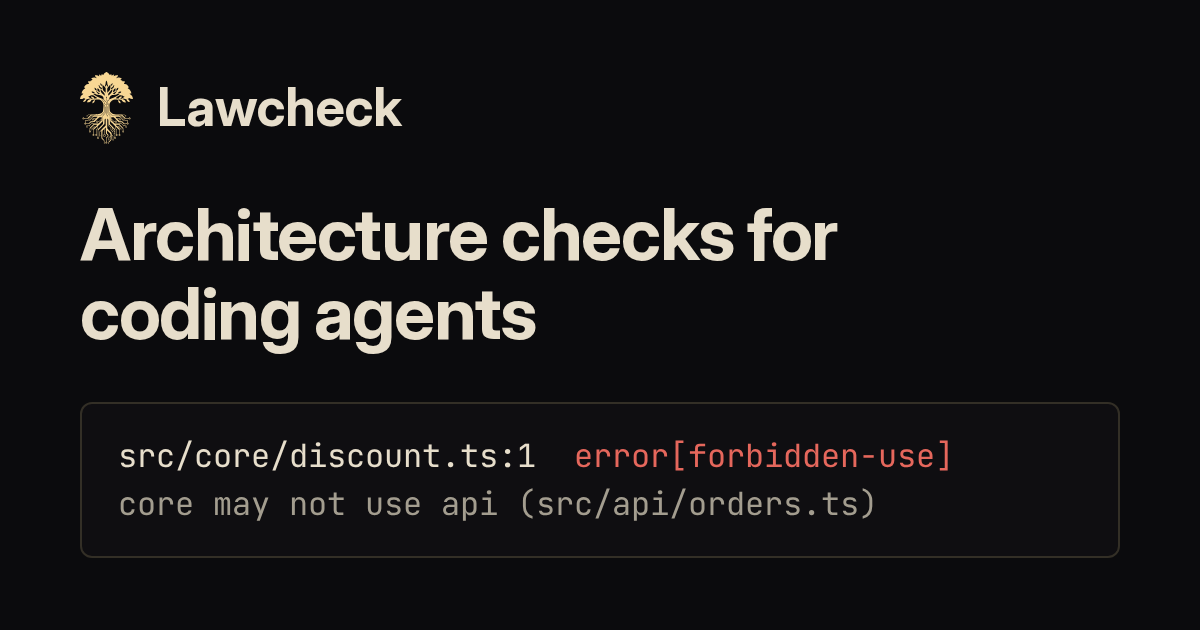
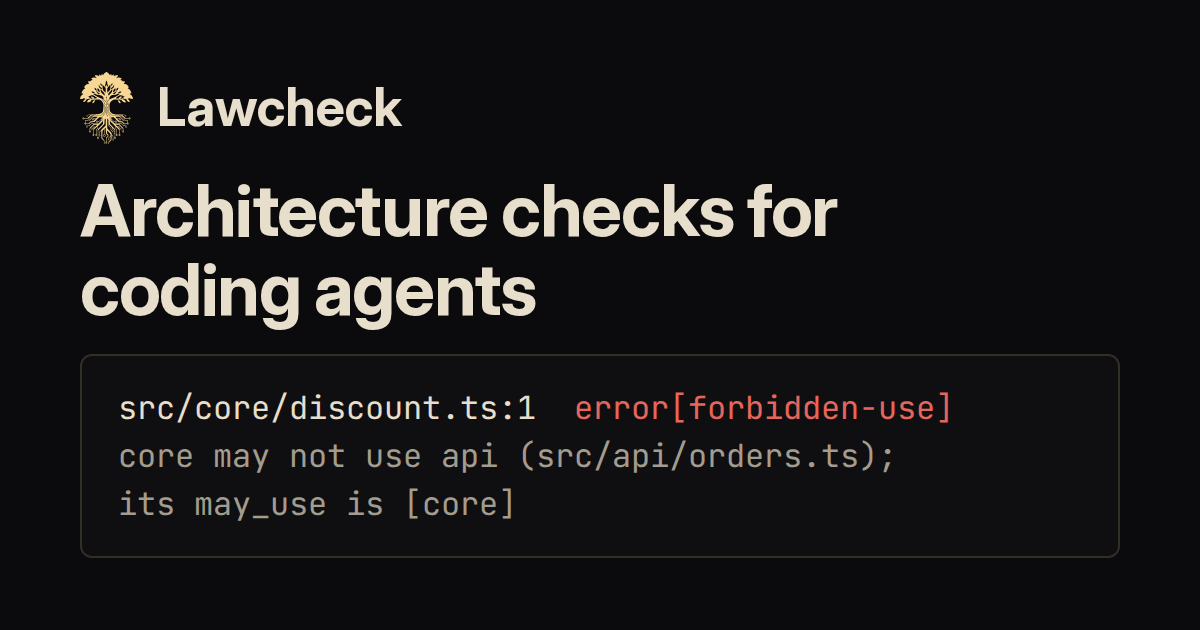
landing: the hero shows the whole law file, and the card and its alt text give the whole finding line (issue 244)

diff --git a/site/landing/facts.ts b/site/landing/facts.ts
@@ -61,12 +61,6 @@ export async function facts() {
   const link = (target: Link) => ({ text: target.text, href: pageUrl(target.page) });
 
   const law = code('README.md', 'Lawcheck', 'lawcheck: ');
-  const lawLines = law.text.split('\n');
-  const core = lawLines.findIndex((line) => line.trim() === 'core:');
-  const indent = lawLines[core]!.indexOf('core:');
-  const after = lawLines.slice(core + 1);
-  const end = after.findIndex((line) => line.length - line.trimStart().length <= indent);
-  const still = [lawLines[core]!, ...(end === -1 ? after : after.slice(0, end))].map((line) => line.slice(indent));
   const install = fragments.code('docs/install.md', 'Install globally', '$ npm install').code.replace(/^\$ /, '');
   const groups = ['`CLAUDE.md` and `AGENTS.md`', 'An architecture tool for one language', 'A review bot at the pull request', 'A hook you wrote in Claude Code'];
   const rowsOf: Record<string, string[]> = {
@@ -95,7 +89,7 @@ export async function facts() {
       support: md('docs/support.md')(support()),
       alpha: readme(fragments.sentence('README.md', 'Try it', 'Lawcheck is an alpha')),
       sends: readme(fragments.sentence('README.md', 'Try it', 'Lawcheck sends code')),
-      still: { file: '.lawcheck/law.yaml', html: highlighter.codeToHtml(still.join('\n'), { lang: 'yaml', theme: 'lawcheck' }) },
+      still: { file: '.lawcheck/law.yaml', html: law.html },
     },
     problem: readme(fragments.paragraph('README.md', 'Lawcheck', 'I build software')),
     law: {

diff --git a/tests/contract/landing.test.ts b/tests/contract/landing.test.ts
@@ -203,3 +203,10 @@ test('test 892: the check of the built landing page passes a stylesheet that sta
   assert.deepEqual(sheetProblems(SHEET.replace('max-width:860px', 'min-width:861px')), sheetProblems(SHEET.replace('max-width:860px', 'max-width:300px')));
   assert.deepEqual(sheetProblems(null), ['assets has no stylesheet']);
 });
+
+test('test 1009: the finding on the card and in its alt text is the whole line that README.md shows, and the alt text says it is the first line of a finding (issue 244)', () => {
+  const line = `${FINDING.place}  ${FINDING.code}  ${FINDING.text}`;
+  assert.ok(read('README.md').split('\n').includes(line), 'a whole line of README.md');
+  assert.ok(CARD.alt.includes(`${FINDING.place} ${FINDING.code}, ${FINDING.text}.`), 'the alt text holds the line to its end');
+  assert.ok(CARD.alt.includes('the first line of one finding'), 'the alt text says that more of the finding follows');
+});
